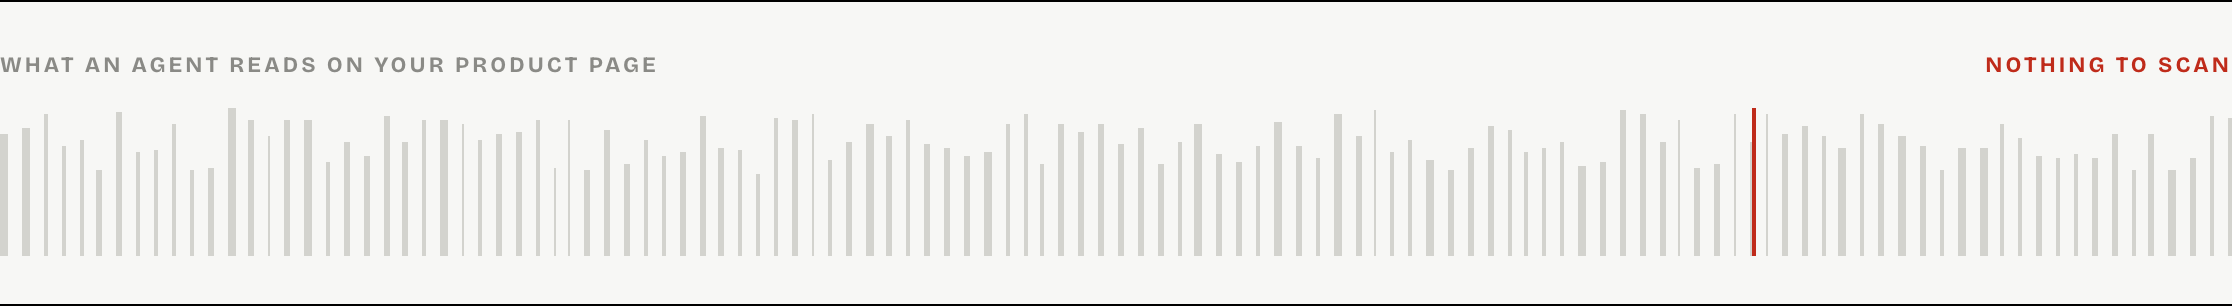
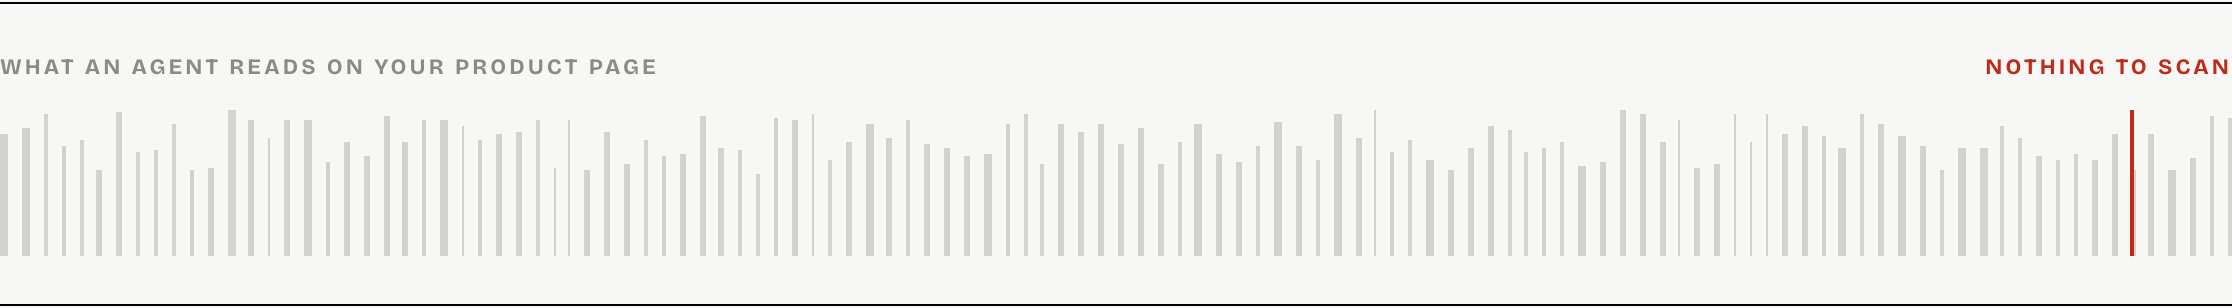
Gallery and cards reshot against the current page
Six of the ten gallery images were captured at 18:44, before the tagline
change, the census split and the fix panel — they still showed the old header.
The whole set is now one moment in time, and reordered so a judge meets the
argument in order: the wall, a real store scored, the fix they can download,
then the four classes, the shared cart, the tools.

Two new shots earn their place: the fix export, which is the thing that stopped
this being advice, and the four-class census.

The brand card carried two dead lines: "AUDIT · BILL · PREVIEW · PROVE", which
is the tagline we replaced on the site, and "78/148 crawled", which predates the
census split. It now leads with the tagline the site actually uses and shows
148 / 0% / 22 / 18.

Claude-Session: https://claude.ai/code/session_01KPgVtMCHRiheMvrMnskNwK

diff --git a/submission/brand/card.html b/submission/brand/card.html
@@ -37,18 +37,18 @@ h1 em{font-style:normal;color:var(--soft)}
         <path fill="#f7f7f5" d="M64 40 h128 v150 l-10.67 10 -10.66 -10 -10.67 10 -10.66 -10 -10.67 10 -10.66 -10 -10.67 10 -10.66 -10 -10.67 10 -10.66 -10 -10.67 10 -10.66 -10 Z"/>
         <g fill="#000"><rect x="84" y="72" width="88" height="6"/><rect x="84" y="94" width="60" height="6"/><rect x="84" y="116" width="74" height="6"/><rect x="84" y="138" width="46" height="6"/></g>
         <rect x="84" y="160" width="88" height="18" fill="#bf2b1a"/></svg>
-      <div><div class="name">ReadyCounter</div><div class="kick">audit · bill · preview · prove</div></div>
+      <div><div class="name">ReadyCounter</div><div class="kick">readycounter.vercel.app</div></div>
     </div>
     <div class="badge">WEBMCP CHALLENGE</div>
   </div>
   <div class="mid">
-    <h1>Agent commerce.<br><em>Now reviewable.</em></h1>
-    <p class="sub">Paste your store. Get the score, the fix list, and the receipt that cites its source.</p>
+    <h1>See what shopping<br><em>agents can&rsquo;t read.</em></h1>
+    <p class="sub">Paste your store for a score that cites its sources &mdash; and a CSV that repairs it.</p>
   </div>
   <div class="tape">
-    <div class="cell"><div class="n">78/148</div><div class="l">DTC brands crawled</div></div>
+    <div class="cell"><div class="n">148</div><div class="l">Storefronts measured</div></div>
     <div class="cell stamp"><div class="n">0%</div><div class="l">GTIN in scrape</div></div>
-    <div class="cell"><div class="n">11</div><div class="l">UCP-only gaps</div></div>
+    <div class="cell"><div class="n">22</div><div class="l">Refused us · unmeasured</div></div>
     <div class="cell"><div class="n">18</div><div class="l">WebMCP tools</div></div>
   </div>
 </div></body></html>

diff --git a/submission/DEVPOST-FIELDS.md b/submission/DEVPOST-FIELDS.md
@@ -46,16 +46,18 @@ react, typescript, vite, webmcp, zustand, shopify, render, vercel, node.js, play
 
 The **first image becomes the Devpost thumbnail.**
 
-| # | File | Why it's in the gallery |
+| # | File | What it shows |
 |---|---|---|
-| 1 | `submission/brand/thumbnail-1280x720.png` | Title card, real numbers on it — 1280×720, 64 KB |
-| 2 | `submission/shots/01-front-door.png` | The census wall: 148 tiles, 11 blue |
-| 3 | `submission/shots/03-store-scored.png` | colourpop.com audited live, 0/24, cited fix list |
-| 4 | `submission/shots/02-blank-barcode.png` | The blank barcode — nothing to scan |
-| 5 | `submission/shots/05-coshop-one-cart.png` | Human + agent, one cart |
-| 6 | `submission/shots/06-webmcp-tools.png` | The 18 WebMCP tools |
-| 7 | `submission/shots/04-readiness-tape.png` | Every point priced from a published source |
-| 8 | `submission/shots/07-mobile.png` | 390px |
+| 1 | `01-THUMBNAIL-upload-first.png` | Title card — 148 measured, 0% GTIN, 22 refused, 18 tools |
+| 2 | `02-front-door.png` | The census wall, four classes |
+| 3 | `03-store-scored.png` | colourpop.com audited live: 0/24, cited fix list |
+| 4 | `04-fix-export.png` | **The fix leaves the page** — Shopify-importable CSV + tickets |
+| 5 | `05-census-four-classes.png` | 48 answered empty · 22 refused us · 11 hide a barcode |
+| 6 | `06-coshop-one-cart.png` | Human + agent, one cart |
+| 7 | `07-webmcp-tools.png` | The 18 WebMCP tools |
+| 8 | `08-blank-barcode.png` | What an agent reads: nothing to scan |
+| 9 | `09-readiness-tape.png` | Every point priced from a published source |
+| 10 | `10-mobile.png` | 390px |
 
 Logos, if a field asks: `submission/brand/logo-mark.svg`, `logo-512.png`,
 `logo-1024.png`, `logo-wordmark.svg`, `wordmark-1440.png`.
